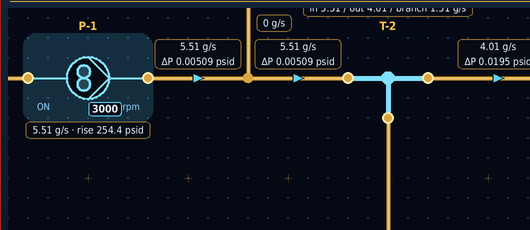
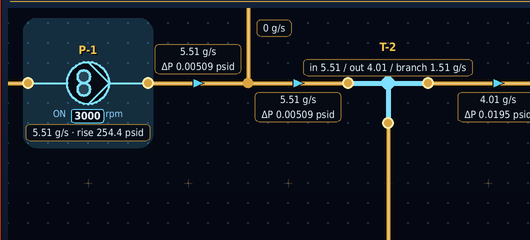
Labels sit close to their components, inside the block box (v1.13)
Name just above the symbol; state caption (or the pump RPM row) and the
results plate just below, all inside the block's invisible box. Sides
with ports are avoided using each type's symbol extent, rotated with the
block (tee, elbow, cross, transducer and rotated blocks use free bands);
tank labels sit inside the capsule. Latch valve, flowmeter, filter,
orifice, thruster and pump footprints are taller so the stack fits; side
ports are unchanged. Guide and screenshots updated.

Claude-Session: https://claude.ai/code/session_01H8We3ZWGtxxkqvAECN9dRo

diff --git a/docs/index.html b/docs/index.html
@@ -230,7 +230,7 @@ python pylon.py --selftest             <span class="c"># physics and solver chec
 
 <footer>
   <div class="wrap">
-    <span>Pylon v1.12 — propulsion feed-system schematic and flow solver</span>
+    <span>Pylon v1.13 — propulsion feed-system schematic and flow solver</span>
     <a href="https://github.com/andrewjsheckells-cell/pylon">github.com/andrewjsheckells-cell/pylon</a>
   </div>
 </footer>

diff --git a/pylon.py b/pylon.py
@@ -83,7 +83,7 @@ import uuid
 import numpy
 
 APPLICATION_NAME = "Pylon"
-APPLICATION_VERSION = "1.12"
+APPLICATION_VERSION = "1.13"
 FILE_FORMAT_VERSION = 3
 
 # =============================================================================
@@ -339,7 +339,8 @@ BLOCK_TYPES = {
                     _calculated_property('calculated_time_to_empty', 'Time to empty at current outflow', 's')],
         flow_coefficient_links=[]),
     'latch_valve': dict(
-        label='Latch Valve', prefix='LV', size=(120, 80), color='#7a4fb0',
+        label='Latch Valve', prefix='LV', size=(120, 100),
+        symbol_extent=(25, 13, 22, 22), color='#7a4fb0',   # extent: symbol reach up/down/left/right
         ports={'inlet': (-60, 0, -1, 0), 'outlet': (60, 0, 1, 0)},
         states=['Open', 'Closed'],
         properties=[PropertyDefinition('open_orifice_diameter', 'Equivalent orifice diameter (open state)', 'in', 0.10),
@@ -357,7 +358,8 @@ BLOCK_TYPES = {
                     _calculated_property('calculated_mass_flow', 'Mass flow', 'g/s')],
         flow_coefficient_links=[('open_orifice_diameter', 'flow_coefficient', 'discharge_coefficient')]),
     'filter': dict(
-        label='Filter', prefix='FL', size=(120, 80), color='#2f8f6a',
+        label='Filter', prefix='FL', size=(120, 110),
+        symbol_extent=(19, 19, 20, 20), color='#2f8f6a',   # extent: symbol reach up/down/left/right
         ports={'inlet': (-60, 0, -1, 0), 'outlet': (60, 0, 1, 0)},
         states=['Clean', 'Maximum trapped particles'],
         properties=[PropertyDefinition('clean_orifice_diameter', 'Equivalent orifice diameter (no trapped particles)',
@@ -378,7 +380,8 @@ BLOCK_TYPES = {
         flow_coefficient_links=[('clean_orifice_diameter', 'clean_flow_coefficient', 'discharge_coefficient'),
                                 ('clogged_orifice_diameter', 'clogged_flow_coefficient', 'discharge_coefficient')]),
     'flowmeter': dict(
-        label='Flowmeter', prefix='FM', size=(120, 80), color='#b0742a',
+        label='Flowmeter', prefix='FM', size=(120, 100),
+        symbol_extent=(17, 17, 17, 17), color='#b0742a',   # extent: symbol reach up/down/left/right
         ports={'inlet': (-60, 0, -1, 0), 'outlet': (60, 0, 1, 0)},
         states=['Flowing', 'Blocked'],
         properties=[PropertyDefinition('orifice_diameter', 'Equivalent orifice diameter', 'in', 0.07),
@@ -393,14 +396,16 @@ BLOCK_TYPES = {
                     _calculated_property('calculated_mass_flow', 'Measured mass flow', 'g/s')],
         flow_coefficient_links=[('orifice_diameter', 'flow_coefficient', 'discharge_coefficient')]),
     'transducer': dict(
-        label='Pressure Transducer', prefix='PT', size=(80, 80), color='#c0392b',
+        label='Pressure Transducer', prefix='PT', size=(80, 80),
+        symbol_extent=(25, 9, 17, 17), color='#c0392b',   # extent: symbol reach up/down/left/right
         ports={'inlet': (0, 40, 0, 1)},
         states=['ON', 'OFF'],
         properties=[_tube_property('inlet_tubing_size', 'Inlet tubing size'),
                     _calculated_property('calculated_pressure', 'Pressure reading', 'psia')],
         flow_coefficient_links=[]),
     'pump': dict(
-        label='Pump', prefix='P', size=(120, 80), color='#16758f',
+        label='Pump', prefix='P', size=(120, 120),
+        symbol_extent=(21, 21, 21, 21), color='#16758f',   # extent: symbol reach up/down/left/right
         ports={'inlet': (-60, 0, -1, 0), 'outlet': (60, 0, 1, 0)},
         states=['ON', 'OFF'],
         properties=[PropertyDefinition('revolutions_per_minute', 'Speed', 'rpm', 3000.0,
@@ -423,7 +428,8 @@ BLOCK_TYPES = {
         flow_coefficient_links=[('stopped_orifice_diameter', 'stopped_flow_coefficient',
                                  'stopped_discharge_coefficient')]),
     'thruster': dict(
-        label='Thruster', prefix='TH', size=(120, 80), color='#d35400',
+        label='Thruster', prefix='TH', size=(120, 110),
+        symbol_extent=(21, 21, 34, 52), color='#d35400',   # extent: symbol reach up/down/left/right
         ports={'inlet': (-60, 0, -1, 0)},
         states=['ON', 'OFF'],
         properties=[PropertyDefinition('specific_impulse', 'Specific impulse', 's', 230.0),
@@ -441,7 +447,8 @@ BLOCK_TYPES = {
                     _calculated_property('calculated_nominal_thrust', 'Thrust at nominal inlet pressure', 'N')],
         flow_coefficient_links=[('orifice_diameter', 'flow_coefficient', 'discharge_coefficient')]),
     'orifice': dict(
-        label='Orifice', prefix='OR', size=(120, 80), color='#566573',
+        label='Orifice', prefix='OR', size=(120, 110),
+        symbol_extent=(20, 20, 4, 4), color='#566573',   # extent: symbol reach up/down/left/right
         ports={'inlet': (-60, 0, -1, 0), 'outlet': (60, 0, 1, 0)},
         states=['ON', 'OFF'],
         properties=[PropertyDefinition('orifice_diameter', 'Orifice diameter', 'in', 0.010),
@@ -455,7 +462,8 @@ BLOCK_TYPES = {
                     _calculated_property('calculated_mass_flow', 'Mass flow (inlet→outlet)', 'g/s')],
         flow_coefficient_links=[]),
     'tee': dict(
-        label='Tee', prefix='T', size=(80, 80), color='#5d6d7e',
+        label='Tee', prefix='T', size=(80, 80),
+        symbol_extent=(4, 40, 40, 40), color='#5d6d7e',   # extent: symbol reach up/down/left/right
         ports={'inlet': (-40, 0, -1, 0), 'outlet': (40, 0, 1, 0), 'branch': (0, 40, 0, 1)},
         states=['Open'],                       # fittings are always open: no toggle
         properties=[_tube_property('inlet_tubing_size', 'Inlet tube size'),
@@ -468,7 +476,8 @@ BLOCK_TYPES = {
         flow_coefficient_links=[]),
     'cross': dict(
         # four-way fitting: run inlet -> outlet, branches up and down
-        label='Cross', prefix='X', size=(80, 80), color='#5d6d7e',
+        label='Cross', prefix='X', size=(80, 80),
+        symbol_extent=(40, 40, 40, 40), color='#5d6d7e',   # extent: symbol reach up/down/left/right
         ports={'inlet': (-40, 0, -1, 0), 'outlet': (40, 0, 1, 0),
                'upper_branch': (0, -40, 0, -1), 'lower_branch': (0, 40, 0, 1)},
         states=['Open'],                       # fittings are always open: no toggle
@@ -483,7 +492,8 @@ BLOCK_TYPES = {
                     _calculated_property('calculated_lower_branch_flow', 'Flow out (lower branch)', 'g/s')],
         flow_coefficient_links=[]),
     'elbow': dict(
-        label='90° Fitting', prefix='EL', size=(80, 80), color='#5d6d7e',
+        label='90° Fitting', prefix='EL', size=(80, 80),
+        symbol_extent=(4, 40, 40, 4), color='#5d6d7e',   # extent: symbol reach up/down/left/right
         ports={'inlet': (-40, 0, -1, 0), 'outlet': (0, 40, 0, 1)},
         states=['Open'],                       # fittings are always open: no toggle
         properties=[_tube_property('inlet_tubing_size', 'Inlet tube size'),
@@ -3326,47 +3336,118 @@ class BlockItem(DataLabelVisibility, QGraphicsItem):
             port.setPos(position_x, position_y)
             port.direction = direction
         self.place_side_labels()
-        width, height = self.size()
-        if self.speed_editor is not None:
+
+    # ---- labels inside the block's (invisible) box, close to the symbol ------------
+    LABEL_GAP = 3.0
+    CAPTION_HEIGHT = 13.0
+    SPEED_ROW_ON_WIDTH, SPEED_ROW_UNIT_WIDTH = 16.0, 21.0
+
+    def symbol_extent(self):
+        """How far the symbol reaches up, down, left and right of the centre, after rotation."""
+        up, down, left, right = self.type_information.get('symbol_extent', (20, 20, 20, 20))
+        reach = {}
+        for distance, (direction_x, direction_y) in ((up, (0, -1)), (down, (0, 1)), (left, (-1, 0)), (right, (1, 0))):
+            rotated_x, rotated_y = rotate_vector(direction_x, direction_y, self.orientation)
+            reach[(int(rotated_x), int(rotated_y))] = float(distance)
+        return reach[(0, -1)], reach[(0, 1)], reach[(-1, 0)], reach[(1, 0)]
+
+    def _caption_row_size(self):
+        """(width, height) of the row under the symbol: the pump speed box row, the state
+        caption, or nothing."""
+        if self.speed_editor is not None and self.state == 0:
             editor_rectangle = self.speed_editor.boundingRect()
-            self.speed_editor.setPos(width / 2 - 30 - editor_rectangle.width(),
-                                    height / 2 - editor_rectangle.height() - 4)
+            return (self.SPEED_ROW_ON_WIDTH + editor_rectangle.width() + self.SPEED_ROW_UNIT_WIDTH + 6,
+                    max(editor_rectangle.height(), self.CAPTION_HEIGHT))
+        if has_toggle(self.block_type) and self.block_type != 'tank':
+            return 90.0, self.CAPTION_HEIGHT
+        return 0.0, 0.0
+
+    def label_layout(self):
+        """Centres of the name and result labels, and the caption row (left, top, width,
+        height, alignment), in block coordinates.  Labels sit just outside the symbol,
+        inside the block's box, on sides without ports."""
+        width, height = self.size()
+        gap = self.LABEL_GAP
+        name_rectangle, result_rectangle = self.name_label.boundingRect(), self.result_label.boundingRect()
+        name_width, name_height = name_rectangle.width(), name_rectangle.height()
+        result_width, result_height = result_rectangle.width(), result_rectangle.height()
+        row_width, row_height = self._caption_row_size()
+        up, down, left, right = self.symbol_extent()
+        center_y = (down - up) / 2                 # vertical middle of the symbol
+        used_directions = {tuple(port.direction) for port in self.ports.values()}
+        free = {side for side, direction in (('top', (0, -1)), ('bottom', (0, 1)), ('left', (-1, 0)),
+                                             ('right', (1, 0))) if direction not in used_directions}
+        layout = {'caption': None}
+
+        def left_band(label_width, y):        # right-aligned just left of the symbol
+            return -(left + gap) - label_width / 2, y
+
+        def right_band(label_width, y):       # left-aligned just right of the symbol
+            return right + gap + label_width / 2, y
+
+        if self.block_type == 'tank':
+            # inside the capsule: name, state caption, results stacked down the middle
+            layout['name'] = (0.0, -62.0)
+            layout['result'] = (0.0, 34.0)
+            layout['caption'] = (-80.0, -26.0, 160.0, 24.0, 'center')
+        elif 'top' in free and 'bottom' in free:
+            # name just above the symbol; caption (or pump speed row) and results just below
+            layout['name'] = (0.0, -(up + gap + name_height / 2))
+            row_top = down + gap
+            if row_height:
+                layout['caption'] = (-row_width / 2, row_top, row_width, row_height, 'center')
+                row_top += row_height + gap
+            layout['result'] = (0.0, row_top + result_height / 2)
+        elif 'top' in free or 'bottom' in free:
+            above = 'top' in free
+            sign = -1 if above else 1
+            reach = up if above else down
+            layout['name'] = (0.0, sign * (reach + gap + name_height / 2))
+            if 'right' in free:
+                layout['result'] = right_band(result_width, center_y)
+                if row_height and 'left' in free:
+                    layout['caption'] = (-(left + gap) - row_width, center_y - row_height / 2,
+                                         row_width, row_height, 'right')
+            elif 'left' in free:
+                layout['result'] = left_band(result_width, center_y)
+            else:
+                # e.g. a tee: results between the symbol and the name
+                result_y = sign * (reach + gap + result_height / 2)
+                layout['result'] = (0.0, result_y)
+                layout['name'] = (0.0, result_y + sign * (result_height / 2 + gap + name_height / 2))
+        elif 'left' in free and 'right' in free:
+            # rotated in-line blocks: name and caption left of the symbol, results right of it
+            name_y = center_y - (name_height / 2 + 1 if row_height else 0)
+            layout['name'] = left_band(name_width, name_y)
+            if row_height:
+                layout['caption'] = (-(left + gap) - row_width, name_y + name_height / 2 + 1,
+                                     row_width, row_height, 'right')
+            layout['result'] = right_band(result_width, center_y)
+        elif 'left' in free or 'right' in free:
+            band = left_band if 'left' in free else right_band
+            layout['name'] = band(name_width, center_y - name_height / 2 - 1)
+            layout['result'] = band(result_width, center_y + result_height / 2 + 1)
+        else:
+            # ports on all four edges (cross): name upper-left, results upper-right
+            layout['name'] = (-(2 * gap) - name_width / 2, -(2 * gap) - name_height / 2)
+            layout['result'] = (2 * gap + result_width / 2, -(2 * gap) - result_height / 2)
+        return layout
 
     def place_side_labels(self):
-        """Name above and results below the block, unless a port sits on that edge
-        (e.g. the tank's top inlet / bottom outlet) - then they move to a free side."""
-        width, height = self.size()
-        used_directions = {tuple(port.direction) for port in self.ports.values()}
-        free_sides = [side for side, direction in (('top', (0, -1)), ('bottom', (0, 1)), ('left', (-1, 0)),
-                                                   ('right', (1, 0))) if direction not in used_directions]
+        """Put the name and result labels (and the pump speed box) where label_layout() says."""
         if self.name_label.text != self.name:
             self.name_label.set_text(self.name)
-        name_rectangle = self.name_label.boundingRect()
-        result_rectangle = self.result_label.boundingRect()
-        if not free_sides:
-            # ports on all four edges (cross): name upper-left, results upper-right,
-            # beside the side ports and clear of the vertical branch lines
-            name_side, result_side = 'left', 'right'
-        else:
-            name_side = 'top' if 'top' in free_sides else ('left' if 'left' in free_sides else free_sides[0])
-            if 'bottom' in free_sides:
-                result_side = 'bottom'
-            elif 'right' in free_sides and name_side != 'right':
-                result_side = 'right'
-            else:
-                result_side = name_side
-
-        def position_for(side, rectangle, row):
-            if side == 'top':
-                return 0, -height / 2 - 12 - row * 18
-            if side == 'bottom':
-                return 0, height / 2 + 12 + row * 18
-            if side == 'left':
-                return -width / 2 - 8 - rectangle.width() / 2, -height / 2 + 12 + row * 20
-            return width / 2 + 8 + rectangle.width() / 2, -height / 2 + 12 + row * 20
-        self.name_label.setPos(*position_for(name_side, name_rectangle, 0))
-        self.result_label.setPos(*position_for(result_side, result_rectangle,
-                                               1 if result_side == name_side else 0))
+        layout = self.label_layout()
+        self.name_label.setPos(*layout['name'])
+        self.result_label.setPos(*layout['result'])
+        if self.speed_editor is not None:
+            caption = layout['caption']
+            if caption is not None:
+                row_left, row_top, _, row_height, _ = caption
+                editor_rectangle = self.speed_editor.boundingRect()
+                self.speed_editor.setPos(row_left + self.SPEED_ROW_ON_WIDTH + 3,
+                                         row_top + (row_height - editor_rectangle.height()) / 2)
+        self.update()
 
     def label_rectangles(self):
         """Scene rectangles of the block body and its name/result labels."""
@@ -3481,15 +3562,26 @@ class BlockItem(DataLabelVisibility, QGraphicsItem):
         painter.restore()
         painter.setFont(make_font(7.2))
         painter.setPen(QColor(THEME['cyan_soft']) if active else QColor(THEME['off']))
-        if self.speed_editor is not None and self.speed_editor.isVisible():
-            painter.drawText(QRectF(-width / 2 + 9, height / 2 - 18, width / 2, 14), Qt.AlignmentFlag.AlignLeft, 'ON')
-            painter.drawText(QRectF(width / 2 - 30, height / 2 - 18, 22, 14), Qt.AlignmentFlag.AlignRight, 'rpm')
-        elif self.block_type == 'tank':
-            painter.setFont(make_font(9.0, True))
-            painter.drawText(QRectF(-80, -12, 160, 24), Qt.AlignmentFlag.AlignCenter, self.state_label())
-        elif has_toggle(self.block_type):
-            painter.drawText(QRectF(-width / 2 + 6, height / 2 - 17, width - 12, 13), Qt.AlignmentFlag.AlignCenter,
-                             self.state_label())
+        caption = self.label_layout()['caption']
+        if caption is not None:
+            row_left, row_top, row_width, row_height, alignment = caption
+            if self.speed_editor is not None and self.speed_editor.isVisible():
+                # pump speed row:  ON [rpm box] rpm
+                editor_width = self.speed_editor.boundingRect().width()
+                painter.drawText(QRectF(row_left, row_top, self.SPEED_ROW_ON_WIDTH, row_height),
+                                 Qt.AlignmentFlag.AlignVCenter | Qt.AlignmentFlag.AlignLeft, 'ON')
+                painter.drawText(QRectF(row_left + self.SPEED_ROW_ON_WIDTH + 6 + editor_width, row_top,
+                                        self.SPEED_ROW_UNIT_WIDTH, row_height),
+                                 Qt.AlignmentFlag.AlignVCenter | Qt.AlignmentFlag.AlignLeft, 'rpm')
+            elif self.block_type == 'tank':
+                painter.setFont(make_font(9.0, True))
+                painter.drawText(QRectF(row_left, row_top, row_width, row_height), Qt.AlignmentFlag.AlignCenter,
+                                 self.state_label())
+            elif has_toggle(self.block_type):
+                horizontal = {'center': Qt.AlignmentFlag.AlignHCenter, 'right': Qt.AlignmentFlag.AlignRight,
+                              'left': Qt.AlignmentFlag.AlignLeft}[alignment]
+                painter.drawText(QRectF(row_left, row_top, row_width, row_height),
+                                 horizontal | Qt.AlignmentFlag.AlignVCenter, self.state_label())
         if self.warnings:
             painter.setPen(Qt.PenStyle.NoPen)
             painter.setBrush(COLOR_WARNING)

diff --git a/docs/Pylon.md b/docs/Pylon.md
@@ -6,7 +6,7 @@ A PySide6 desktop tool for drawing a spacecraft liquid-propulsion feed-system sc
 
 | | |
 |---|---|
-| Program | `pylon.py` (single file, version 1.12) |
+| Program | `pylon.py` (single file, version 1.13) |
 | Requires | Python ≥ 3.9, `PySide6`, `numpy` |
 | Run | `pip install PySide6 numpy` then `python pylon.py [schematic.pylon.json]` |
 | Solver self-test (no GUI) | `python pylon.py --selftest` |
@@ -32,7 +32,7 @@ The interface uses a dark sci-fi console style taken from the user's reference s
 * **Frames:** every panel sits in a bevelled **gold metallic frame** with rounded corners, angular corner fins and a thin **red inner trim** around a dark navy panel. The panels are the component column, the schematic, System status, Component data, Warnings and Scenarios, plus every dialog.
 * **Headings** are engraved gold capitals with a fading gold rule.
 * **Buttons** are dark plates with gold borders. Dialog accept buttons (OK, Apply) have **green** text and cancel/close buttons have **red** text, like the reference's Start/Cancel.
-* **Components and fittings have no frame or border.** Each is just its glowing cyan symbol on the canvas. The name is engraved in gold above it and the results sit on a plate below it. On an edge that has a port (the tank's top and bottom), the name and results move to a free side so the pipes stay clear. Blocks in an OFF or blocked state show a grey symbol. A selected block gets a soft translucent cyan halo; a block with a warning gets a translucent red halo and a "!" badge. The click/hit area is still the block's full footprint.
+* **Components and fittings have no frame or border.** Each is just its glowing cyan symbol on the canvas. **Labels sit close to the symbol, inside the block's invisible box:** the name just above the symbol, then the state caption (or the pump's RPM row) and the results plate just below it. Where an edge has a port, the labels use a free side instead. The transducer reads beside its gauge; tees stack name and results above the run. An elbow puts its results to its lower right, and a cross puts its name upper-left and results upper-right. On a rotated in-line block the name and state go left of the symbol and the results right of it. The tank shows its name, state and results inside the capsule. Wide result text may extend past the box sideways. Blocks in an OFF or blocked state show a grey symbol. A selected block gets a soft translucent cyan halo; a block with a warning gets a translucent red halo and a "!" badge. The click/hit area is still the block's full footprint.
 * **Pump symbol:** the gear-pump symbol — a casing circle with two touching gear circles and a **V whose point marks the outlet**, so the V shows the flow direction (left to right on an unrotated block; it turns with the block when rotated). The gears are shaded while the pump is ON and the symbol is grey when it is OFF.
 * **Tank:** drawn 4× the earlier size (a 176 × 280 px capsule in a 200 × 400 px footprint), with brass tube stubs from the capsule to the top inlet and the bottom outlet. The fill level shows the state (Nominal / Maximum / Minimum), and the state and pressure are written inside the tank.
 * **Plumbing lines** are drawn as brass pipes (dark outline, gold body, light highlight) with cyan flow arrows, and turn cyan when selected.
@@ -460,11 +460,24 @@ LAYOUT
   "Minimum tank pressure".
 
 BLOCKS
-Each block has a name label above it, a symbol, a state caption and a results label below it. Ports:
+Each block has a symbol, a name label, a state caption and a results label. Ports:
 inlet on the left edge and outlet on the right edge; Tee branch and 90° fitting outlet on the bottom;
-the Tank alone has its inlet on top and its outlet on the bottom. When a port occupies the top or
-bottom edge, the name and results labels (and the rim gem) move to a free side (name left, results
-right). Blocks rotate in 90° steps (ports and symbol rotate; text stays upright).
+the Tank alone has its inlet on top and its outlet on the bottom. Blocks rotate in 90° steps (ports
+and symbol rotate; text stays upright).
+- Label layout (label_layout): every block type has symbol_extent = how far its symbol reaches
+  up/down/left/right (rotated with the block). Labels go just outside that reach, inside the block's
+  box, on sides without ports, 3 px apart:
+  - top and bottom free: name above the symbol; caption (or the pump row "ON [rpm box] rpm") then the
+    results plate below it;
+  - only top (or bottom) free: name there; results in a free left/right band level with the symbol
+    middle, else stacked between the symbol and the name (tee); caption in the left band if free;
+  - left and right free (rotated in-line blocks): name and caption right-aligned left of the symbol,
+    results left-aligned right of it;
+  - one side band free: name and results stacked in it; no side free (cross): name upper-left,
+    results upper-right;
+  - tank: name, state caption and results stacked inside the capsule (y -62, -14, +34).
+  Footprints sized so the stack fits: latch valve 120x100, flowmeter 120x100, filter, orifice and
+  thruster 120x110, pump 120x120; side ports unchanged.
 - Clicking the centre zone toggles the state. Tees, crosses and 90° fittings have a single "Open" state and no
   toggle (no click toggle, no state caption, no State menu or field); stored states are clamped with
   normalized_state(), so older files with a tee/fitting OFF load as open. has_toggle(type) is true
@@ -663,3 +676,4 @@ CODE CONVENTIONS
 | 1.10 | 2026-10-13 | Pump icon changed to the gear-pump symbol (casing with two meshing spur gears) on the schematic and in the component column. |
 | 1.11 | 2026-10-13 | Pump icon changed to the user's gear-pump symbol: casing circle, two touching gear circles and a V pointing to the outlet to show the flow direction. |
 | 1.12 | 2026-10-13 | Cross fitting added: four ports (inlet, outlet, upper and lower branches), tube sizes per port, tee-based Crane/two-K arm losses, per-port flows; no toggle. Blocks with ports on all four edges place their name upper-left and results upper-right. Self-test check added. |
+| 1.13 | 2026-10-13 | Labels moved close to their components, inside each block's invisible box: name just above the symbol, state caption / pump RPM row and results just below, or on a free side where an edge has a port. Tank labels sit inside the capsule. Latch valve, flowmeter, filter, orifice, thruster and pump footprints made taller so the labels fit; side port positions unchanged. |

diff --git a/README.md b/README.md
@@ -66,4 +66,4 @@ Python 3.9 or newer is required. To try the pump-curve import, right-click a pum
 
 ## Status
 
-Version 1.12. The solver passes its built-in self-test (`--selftest`), which covers closed-form orifice flow, Hagen–Poiseuille, Colebrook, the Cv relation, mass balances, orifice sizing, pump-curve interpolation and file upgrades. Verify the loss-coefficient defaults against your own hardware data before relying on results for design decisions.
+Version 1.13. The solver passes its built-in self-test (`--selftest`), which covers closed-form orifice flow, Hagen–Poiseuille, Colebrook, the Cv relation, mass balances, orifice sizing, pump-curve interpolation and file upgrades. Verify the loss-coefficient defaults against your own hardware data before relying on results for design decisions.
